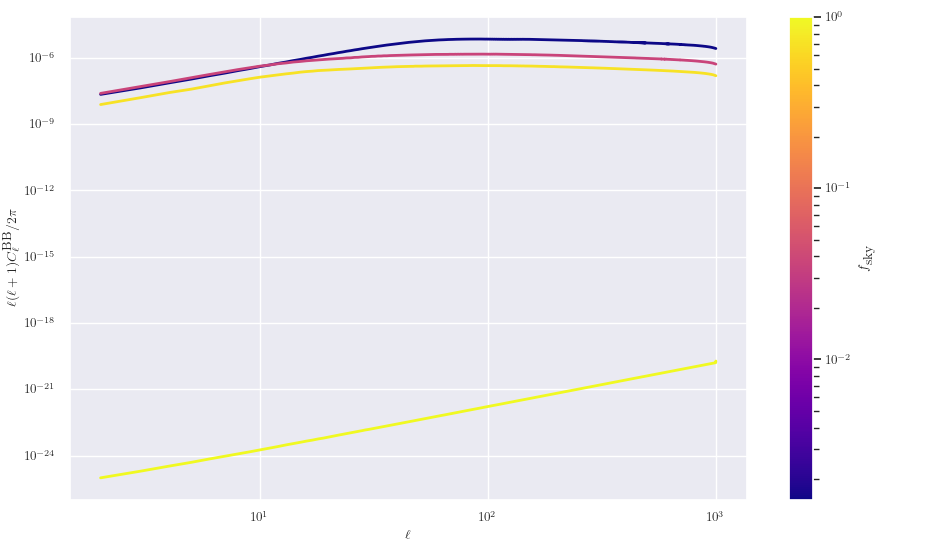
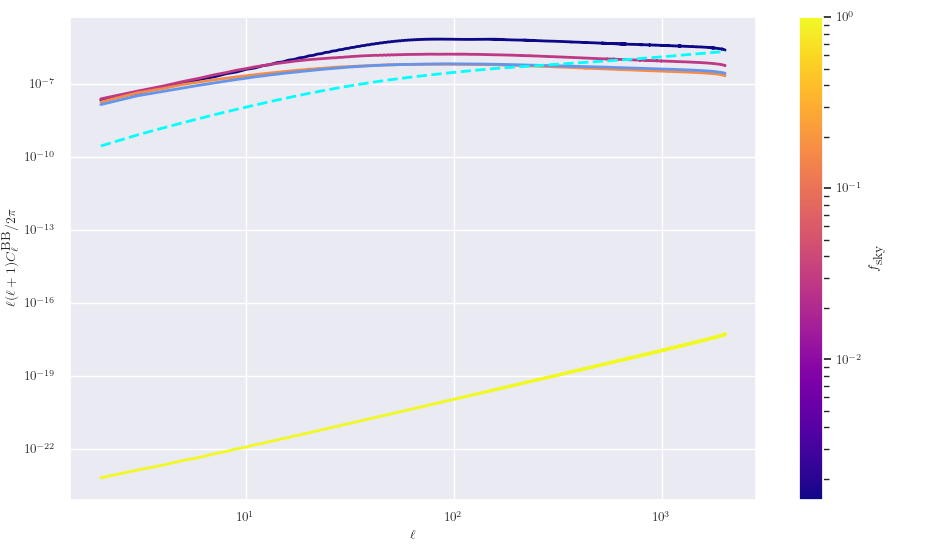
Update logbook files and plots

diff --git a/docs/InvestigatingMasks.md b/docs/InvestigatingMasks.md
@@ -418,7 +418,7 @@ further decrease _f_<sub>sky</sub> the variance actually decreases. However, at 
 the variance is monotonically increasing as _f_<sub>sky</sub> decreases.  
 We can now look at the normalised variance, which is shown below.
 
-![Normalised varaince](figures/investigating_masks/small_fsky/NormVariance.png)
+![Normalised variance](figures/investigating_masks/small_fsky/NormVariance.png)
 
 If we now look at the variance of the _Cl_'s normalised by the average squared, we find that the
 increased variance over the theoretical values (shown in the dashed cyan line) scales monotonically
@@ -486,7 +486,9 @@ the Euclid mask), which gives
 Here, we can see that the perfect symmetry of the basic mask causes the odd-mode power to be vastly
 suppressed compared to the Euclid mask. Both masks feature strong increases for even multiples of 2 from 
 our original _l_ value, which again makes sense because both masks have strong(er) support at even _l_
-over odd _l_ values.
+over odd _l_ values. For _l_ values close to our input value, we see that the even modes predicted for the
+two masks are very similar, which shows that (at least for the even values) the primary features of the Euclid
+mask are simply the two large galactic and ecliptic cuts.
 
 ### Evaluating the coupling matrix
 
@@ -522,6 +524,24 @@ Here, we can see that in general the amplitude of the Cl values grow as _f_<sub>
 oscillations becoming noisier too. The values also closely follow a 1/l behaviour, which means that the raw
 Cl values follow a 1/l<sup>3</sup> pattern.
 
+### Comparing the Euclid mask to our theoretical simple theta mask
+
+Previously, we have analytically calculated the Cl values for a mask that is simply a band around the center
+of the map (which means it only varies with theta, and is constant in phi). The derived Cl's were a function
+of the regular Legendre polynomials that depended on where the mask started and stopped in the theta plane.
+These analytic values were found to agree very well with numerical results for a numerical implementation
+of this simple mask, however we now want to see how close the Euclid mask is to our simple analytic mask by
+comparing the Cl values. We expect, given that the Euclid mask has an additional cut corresponding to the
+ecliptic plane and other irregularities, that the broad features will be the same between the two, but there
+may be differences (especially at high _l_).  
+
+![Euclid mask vs theory values](figures/investigating_masks/Euclid_vs_theory.png)
+
+Note that in this plot the theory values are plotted for even-_l_ only (as the odd-_l_ values are zero), whereas
+the Euclid values are plotted for all _l_.  
+Here we see that both masks seem to follow the same general trend: they both exhibit the same 1/l pattern as
+seen before. 
+
 ## Comparing analytic and numerical covariance matrices
 
 A key part of the pseudo-Cl technique is to recover the covariance matrix between the different _l_ modes without
@@ -552,8 +572,50 @@ For a comparison, here is the difference between numerical and theoretical covar
 
 This shows no trends in the differences as the values here are just random noise. It should be noted that the
 amplitude of the absolute differences have increased between masks 1 to 9, but the relative differences
-have decreased to sub-1% level. The reason why we can't compute the fractional difference is becasue the odd-l
+have decreased to sub-1% level. The reason why we can't compute the fractional difference is because the odd-l
 modes should have (close to) zero covariance, and so taking the ratio here will dominate the plots with noise.
+
+### Differences for the Euclid mask
+
+Above, we looked at the numerical and theoretical covariance matrices where the theoretical values were
+calculated using the narrow kernel approximation, which is where we assume that we only have a narrow mask
+(and so a large _f_<sub>sky</sub>). We now want to see how accurate this approximation is for the Euclid mask,
+as we can compute the covariance matrix both ways and take their difference, just as above. This gives
+
+![Numerical vs theoretical covariance for Euclid](figures/covariance_matrix/Euclid_Cov.png)
+
+![Difference in covariance matrix for Euclid](figures/covariance_matrix/Euclid_Diff.png)
+
+Here, we can see that both methods yield pretty much the same covariance matrix. The absolute differences are
+about an order of magnitude, _at most_, smaller than the raw values themselves. This shows us that the
+narrow-kernel approximation is fine for the Euclid mask for our range of _l_ values.  
+However, to double check the exact ratios of how off the theory matrix is to the numerical one, we can take
+the ratio. To do so, we need to be careful as many of the entries in the covariance matrices are close to
+zero, and so we only want to take the ratios of values that we know to be non-zero. Here, we take the ratio
+of the diagonal elements, and elements that are on the ±1 and ±2 from the diagonal. This gives us the following
+plot
+
+![Ratios along select diagonal](figures/investigating_masks/covariance/Ratio_select.png)
+
+This shows that for the diagonal elements, the numerical and theoretical values give very good agreement, 
+with only slight differences at low and high _l_ values. This relative difference increases to a factor of 
+around ± two when considering the off-diagonal by one terms. This makes sense as the absolute values here
+will be very small, and so the effects of small numerical noise become increased here. We then note that for
+the off-diagonal by two terms seem to peak strongly for small-_l_ values, but seem to be scattered around
+zero elsewhere. This indicates that the theoretical covariance matrix deviates from the numerical one when
+at least one of the _l_ values become small.  
+We also note that the off-diagonal by one and two plots aren't perfect symmetries of each other (the off-diagonal
+by one is close, but the off-diagonal by two is far from close) which is surprising given that the covariance
+matrices should be perfectly symmetric. Indeed, the numerical covariance matrix is perfectly symmetric due to
+its construction, and so any anti-symmetry displayed in the ratio is arising from the theory matrix. We can
+quantify the anti-symmetry of the theory matrix by taking the difference between the original matrix and its
+transpose. This should give us an empty matrix of zeros, but instead gives us
+
+![Difference between theory matrix and transpose](figures/investigating_masks/covariance/Theory_antisymmetry.png)
+
+Here, we can see that the values are slightly larger on the upper right-hand side of the matrix than
+the bottom left-hand side. This slight asymmetry then causes our ratios above to be non-symmetric, which is
+what we have observed.
 
 ## Masking shear with E/B decomposition
 
@@ -572,10 +634,14 @@ then be combined to give the power spectra.
 
 ### Average power spectra
 
-Here, we first look at the EE, EB, and BB power spectra averaged over 750 runs for three masks and an unmasked
-map to see what affect masking has on the recovered signal.
+Here, we first look at the EE, EB, and BB power spectra averaged over 750 runs for three masks, and an unmasked
+map to see what affect masking has on the recovered signal. We also plot the Euclid mask, which is shown in the
+light blue line throughout these plots.
 
 ![Covariance animation](figures/ShearEB/EE_Cl.png)
+
+In the following two plots, the dashed cyan line corresponds to 1% of the EE signal, which allows us to see
+how important the recovered EB and BB signal is to the pure EE signal.
 
 ![Covariance animation](figures/ShearEB/EB_Cl.png)
 
@@ -587,7 +653,18 @@ algorithm. However, as we decrease _f_<sub>sky</sub> even by just a little, we s
 jump in amplitude of the BB signal, which would suggest that there is an actual signal here, and not just
 numerical noise. This BB signal then grows as we decrease _f_<sub>sky</sub> further, which suggests that the
 effect of masking is to introduce a phantom BB signal that is not there on the full-sky. This behaviour is
-mimicked in the EB signal.
+mimicked in the EB signal.  
+We also see that for the EB signal for the Euclid mask, the recovered power is larger than our 1% cut for
+_l_ values less than about one hundred. This indicates that the EB mode is non-negligible below this _l_ value,
+and becomes less important above this. We see the same pattern in the BB mode, however now the point
+where the two signals cross is around a factor of two larger, at around 250. We can separately plot the
+EE, EB, and BB signal for just the Euclid mask (along with the 1% cut) to see in detail how important this
+power-mixing is:
+
+![Euclid mask modes](figures/ShearEB/Euclid_Cl.png)
+
+This clearly shows that at low _l_ the recovered EB and BB signals are non-negligible and need to be taken
+into account when performing analysis.
 
 Note that as the EB signal can be positive or negative, we use the root-mean-square of the signal at each _l_,
 instead of the mean as that correctly deals with the sign flips, as we mostly care about the amplitude of the
@@ -649,7 +726,7 @@ not know, and so we need to marginalise over all of these at once. To go from a 
 cosmological parameters is quite a complex task, so let us extend to two parameters here, which can then be
 further generalised later.
 
-As the above liklelihood calculations focused on A_s, it was natural to extend them to include the scalar spectral
+As the above likelihood calculations focused on A_s, it was natural to extend them to include the scalar spectral
 index n_s too. This then gives us a 2D likelihood contour, as we can simply evaluate it over a grid of (A_s, n_s)
 values. This isn't the most efficient method, however is the simplest to code up. The results of this are
 
@@ -658,7 +735,16 @@ values. This isn't the most efficient method, however is the simplest to code up
 Here, we can see that the likelihood values generally form bands, where an increase in A_s leads to a decrease
 in n_s, for the same likelihood value. We have also labelled the maximum-likelihood point (the pink cross) and
 the true values for the map (the purple cross). We can see that these two values are quite close, which shows
-that our 2D likelihood code is still capable of recovering cosmological parameters from a map, even in 2D.
+that our 2D likelihood code is still capable of recovering cosmological parameters from a map, even in 2D.  
+We have also added two contours that represent the 68 and 95-th percentiles of the likelihood data. These values
+were obtained by plotting the likelihood values on a 1D histogram, and then extracting the confidence intervals
+from that:
+
+![1D likelihood histogram](figures/Likelihoods/Likelihood_histogram.png)
+
+Looking back at the 2D contour map, we can see that the two dashed contours are very loose constraints on the
+joint A_s-n_s values, primarily due to the apparent degeneracy between the lensing power spectrum as A_s increases
+and n_s decreases.
 
 #### Slices of the 2D likelihood
 
@@ -678,4 +764,95 @@ likelihood point for our three curves above, which gives
 
 Here, we can see that for low _l_ (less than around one hundred) the three models predict quite different values
 for the lensing power spectrum. However, above this point they all start to converge to the same curve which
-is where the degeneracy in the likelihoods comes from.
+is where the degeneracy in the likelihoods' comes from.
+
+#### A_s - n_s contours with masking
+
+The contours for the likelihood values in the A_s - n_s plane were for convergence maps with no masking, and so
+we can ask if masking the map before recovering the Cl values (with the Euclid mask) changes the values
+significantly. Doing so resulted in finding that neither the A_s or n_s values were changed to three
+significant figures, and so we can be confident that masking does not change the final results much (at least
+in our basic scenario). However, we can look at _how_ the likelihood changes when masking, which is through
+taking the difference between the two sets of values. This gives us the plot of
+
+![Difference induced when masking in the likelihoods](figures/Likelihoods/MaskDiff.png)
+
+This shows that the likelihood changes most for small values of A_s and n_s, when the amplitude of the
+lensing power spectrum is at its smallest.
+
+### An MCMC analysis of the A_s - n_s plane
+
+In our above analysis, we used our likelihood code to simply evaluate the likelihood on a grid of (A_s, n_s)
+values to then extract the maximum-likelihood point, and to see how the contours where shaped. However, we can
+go further than this by embedding this likelihood in an external Monte Carlo Markov Chain (MCMC) analysis
+pipeline to find the optimal constraints on the parameters, given our likelihood, and proper analysis
+of the posterior distributions. To do so, the likelihood code was converted into a small standalone Cosmosis
+module, which then allowed us to use the standard Cosmosis samplers to probe the parameter space in the
+most efficient way possible. Here, we used the basic Metropolis-Hastings algorithm as while it may not be
+the most efficient MCMC sampler, it is one of the easiest to use.
+
+The sampler was then run using 25,000 sample points to obtain good distributions of the posterior, which was
+then passed into the GetDist analysis software to produce a triangle plot of
+
+![Triangle plot 1](figures/Likelihoods/TrianglePlot.png)
+
+Here, we can see the strong inverse degeneracy between A_s and n_s values, as seen in the raw likelihood
+contours. We also note the nice nearly Gaussian 1D marginal distributions for A_s and n_s. From GetDist, the
+1D marginal constraints on A_s were (2.088 ± 0.012) x10<sup>-9</sup> and n_s were (0.9670 ± 0.0050). Clearly
+these are very tightly constrained parameters, which makes sense given what we know about the likelihood.
+
+#### Extending the MCMC to three parameters
+
+Now that we have a working MCMC pipeline to estimate two parameters, we can try to extend this to more parameters,
+in this case by sampling over the Hubble constant H0. This then gives us three parameters, of which the triangle
+plot for the run gave
+
+![Triangle plot 2](figures/Likelihoods/TriangleH0.png)
+
+This now gives some very interesting results when we compare our three parameter run to our two parameter run.
+We note that the A_s and n_s values seem to be biased to lower values than their true value, and that the
+H0 value is larger than the true value. We also note that none of the 95% contours overlap with the true values
+for any of the parameter combinations. The best-fit parameters here are: A_s of (1.96 ± 0.06) x10<sup>-9</sup>,
+n_s of (0.925 ± 0.012), and H0 of (73.5 ± 1.2) km/s/Mpc.  
+These results show that a smarter likelihood and sampler code is needed when we want to eventually extend this to 
+the number of parameters eventually required (approximately ten).
+
+### Investigating parameter bias when masking and adding noise
+
+In the real world, our maps that we want to estimate cosmological parameters from will be masked and include
+noise. Hence, when we try to simulate recovering parameters from maps, we should do so from maps that have
+been masked and have noise added that would reflect the real masking and noise. We can then compare the
+parameter estimations from our maps with and without noise, and with and without masking. This allows
+us to see in detail how each effect affects the recovered parameters in a controlled manor.  
+Furthermore, we have been dealing entirely with convergence maps so far, which is not the case for the real
+world applications where we will be using the EE mode of the shear signal. Hence, we want to compare how
+using shear could lead to different parameters over using convergence, especially when masking and noise
+are involved.
+
+The same 1D likelihood code was re-used here to compute the likelihoods for our four cases for the
+simulated convergence signal, which gives
+
+![A_s likelihood values for convergence](figures/Likelihoods/As_kk.png)
+
+The same was done to simulate the EE-mode shear signal, which gave the following likelihoods
+
+![A_s likelihood values for shear](figures/Likelihoods/As_EE.png)
+
+These two plots look very much the same, which suggests that as the EE shear signal tends to the convergence
+signal at large-_l_, this causes negligible parameter biasing as the likelihood calculation is weighted towards
+larger-_l_ values. We have also seen that masking the shear signal  
+
+| Map      | Recovered A_s value |
+| ----------- | ----------- |
+| Unmasked no noise convergence | 2.16162e-09 |
+| Unmasked no noise shear | 2.16163e-09 |
+| Unmasked with noise convergence | 2.16069e-09 |
+| Unmasked with noise shear | 2.16070e-09 |
+| Masked no noise convergence |  2.16192e-09 |
+| Masked no noise shear | 2.16193e-09 |
+| Masked with noise convergence |  2.15930e-09 |
+| Masked with noise shear | 2.15931e-09 |
+
+Note that the "true" value for the map is 2.1E-9, and so the masked with noise maps technically predict the 
+"best" A_s value, however it is true to say that these are also the most biased parameters in regards to
+the unmasked with no noise maps.
